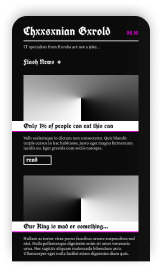
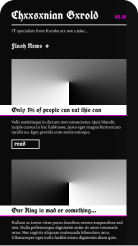
0x041022[pc]

diff --git a/styles/main.css b/styles/main.css
@@ -1,1 +1,1 @@
-*{font-family:"Ubuntu",sans-serif;font-size:1.25vw}body{background:url(../img/hero_img.png) top no-repeat;background-size:100vw 69.22vw;background-color:#101010}section:not(#welcome-section),#top-menu{padding:0 5.21vw}section header :is(h1,h2){margin:0;font-size:4.16em;color:#b2ee3b;font-weight:700;box-sizing:border-box}#top-menu{position:fixed;top:-2.61vw;background-color:#ff3f3f;display:flex;justify-content:space-between;align-items:center;height:2.61vw;width:100vw;box-sizing:border-box;z-index:10}#top-menu nav ul{padding:0;list-style:none;display:flex;gap:3.65vw;position:relative;height:2.61vw;align-items:center}#top-menu nav ul li:first-child{margin-left:1.57vw}#top-menu nav ul li:nth-last-child(2){margin-right:1.57vw}#top-menu nav ul a{text-decoration:none;color:#000;font-weight:700;transition:color ease-in-out .5s;height:100%}#top-menu .active{color:#b2ee3b}#top-menu nav ul li:hover a{color:#b2ee3b}#top-menu nav ul li:nth-child(1):hover~#active-bg-slider{width:8.81vw !important;margin-left:0 !important}#top-menu nav ul li:nth-child(2):hover~#active-bg-slider{width:8.6vw !important;margin-left:9.22vw !important}#top-menu nav ul li:nth-child(3):hover~#active-bg-slider{width:8.29vw !important;margin-left:18.15vw !important}#top-menu nav ul li:nth-child(4):hover~#active-bg-slider{width:6.78vw !important;margin-left:26.88vw !important}#logo{width:1.93vw;height:1.93vw}#active-bg-slider{position:absolute;top:0;background-color:#101010;width:8.81vw;height:100%;z-index:-1;transition:all .5s ease-in-out}#welcome-section{height:50.53vw;display:flex;justify-content:space-between}#welcome-section .welcome-sidebar{width:24vw;display:flex}#welcome-section .welcome-sidebar:last-child{justify-content:right}#welcome-section .welcome-actionbar{width:13.6vw;display:flex;align-items:center;justify-content:center;transition:background-color .3s ease-in-out;border-radius:0 0 10vw 0}#welcome-section #right-sidebar .welcome-actionbar{border-radius:0 0 0 10vw}#welcome-section .welcome-sidebar:hover>.welcome-actionbar{background-color:rgba(255,255,255,.0509803922) !important}#welcome-section .welcome-sidebar:hover>.welcome-actionbar>.triangle{background-color:#fff}#welcome-section .triangle{width:3.13vw;height:3.13vw;background:rgba(255,255,255,.05);clip-path:polygon(50% 0%, 0% 100%, 100% 100%);transform:rotate(-90deg);transition:background-color .5s ease-in-out}#welcome-section #right-sidebar .triangle{transform:rotate(90deg)}#aboutme-section{position:relative;margin-top:24.38vw}#aboutme-section header div{display:flex;justify-content:space-between;width:24vw;color:#fff}#aboutme-section header div a{position:relative}#aboutme-section header div a::before{content:"@loooltooot";position:absolute;top:0;left:0;background:linear-gradient(270deg, #b2ee3b 0%, #ff3f3f 100%);-webkit-background-clip:text;background-clip:text;-webkit-text-fill-color:rgba(0,0,0,0);opacity:0;transition:opacity .3s ease-in-out}#aboutme-section header div a:hover::before{opacity:1}#aboutme-section header h1{margin-left:-0.19vw}#aboutme-section #aboutme-description{padding:10vw 0 10vw 5.21vw;background-color:#ff3f3f;width:94.8vw;transform:translateX(-5.21vw);box-sizing:border-box;margin-top:19.07vw;border-radius:0 0 20.84vw 0}#aboutme-section #aboutme-description span{display:block;font-weight:700;font-size:2.66em;width:51.88vw}#aboutme-section #aboutme-description span .highlight{display:inline;width:fit-content;font-size:1em;color:#ff3f3f;background-color:#101010}@keyframes legoman_animation{0%{transform:rotate(0deg)}50%{transform:rotate(2deg)}100%{transform:rotate(1deg)}}#aboutme-section #legoman{position:absolute;right:5.21vw;top:-2.6vw;width:44.64vw;transform-origin:70% 50%;animation:legoman_animation 4s infinite alternate}#aboutme-section #aboutme-decal{position:absolute;right:5.21vw;top:1.87vw;z-index:-1;width:38.23vw;height:24.28vw;background-color:#ff3f3f;border-radius:20.84vw 20.84vw 0 0}#aboutme-section header div a,section header span{color:#fff;text-decoration:none;margin-top:-0.5vw;display:block}#portfolio-section{display:flex;flex-direction:column;margin-top:7.19vw}#portfolio-section header{text-align:right}#portfolio-section header h2{margin-right:-0.35vw}#portfolio-section #buttons{display:flex;justify-content:space-between;margin-top:13.9vw}#portfolio-section #buttons svg{cursor:pointer;width:39.32vw;height:12.6vw}#portfolio-section #buttons .shadow{opacity:0;transition:opacity ease .7s}#portfolio-section #buttons svg:hover>path.shadow{opacity:1}#contacts-section{margin-top:18.25vw;background-color:#ff3f3f;position:relative;height:31.41vw;overflow-x:clip}#contacts-section header{background-color:#101010;width:22.86vw;height:5.21vw;display:flex;justify-content:center;align-items:center}#contacts-section #contacts-description{display:flex;justify-content:space-between}#contacts-section #contacts-description #activity{width:39.64vw;height:16.67vw;display:flex;flex-direction:column;justify-content:space-between;margin-top:4.74vw}#contacts-section #contacts-description #activity p{font-weight:700;font-size:2.66em;margin:0}#contacts-section #contacts-description #activity #contacts-buttons{display:flex;justify-content:space-between;width:34.48vw}#contacts-section #contacts-description #activity #contacts-buttons .contact-button{border:#101010 solid .21vw;padding:1.38vw 2.6vw;font-weight:bold;cursor:pointer;color:#101010;text-decoration:none;transition:background-color ease-in-out .5s,color ease-in-out .5s}#contacts-section #contacts-description #activity #contacts-buttons .contact-button:hover{color:#ff3f3f;background-color:#101010}#contacts-section #contacts-description #contacts-block{display:flex;flex-direction:column;justify-content:space-between;background-color:#101010;padding:1.41vw 5.21vw 1.41vw 4.32vw;height:6.82vw;transform:translateX(5.21vw);color:#ff3f3f;font-weight:700;box-sizing:border-box}#contacts-section #contacts-description #contacts-block span{position:relative}#contacts-section #contacts-description #contacts-block span:first-child::before{position:absolute;left:-2.84vw;top:0;width:1.82vw;height:1.56vw;background-image:url("../img/email-cont.svg");background-size:1.82vw 1.56vw;content:"";top:.12vw}#contacts-section #contacts-description #contacts-block span:last-child::before{position:absolute;left:-3vw;top:0;width:1.82vw;height:1.56vw;background-image:url("../img/tg-cont.svg");background-size:1.82vw 1.56vw;content:""}#contacts-section #legohand{position:absolute;transform:rotate(90deg);left:100vw;top:39vw;width:61.98vw;height:34.84vw;transition:left ease-in-out 1.5s,transform ease-in-out 1.5s;transform-origin:100% 30%}@keyframes legohand_animation{0%{transform:rotate(56.78deg)}33%{transform:rotate(62deg)}66%{transform:rotate(55deg)}100%{transform:rotate(58deg)}}#contacts-section #legohand.animated-hand{left:50.39vw;transform:rotate(56.78deg)}#contacts-section #legohand.animation-hand{animation:legohand_animation 8s infinite alternate}body>footer{margin-top:12.53vw;position:relative}body>footer #footer-logo{width:100vw;height:16.98vw;position:absolute;top:3vw;filter:none;transition:filter ease-in-out .5s}body>footer .actionbar{height:19.95vw;background:linear-gradient(180deg, rgba(23, 23, 23, 0) 48.44%, #b2ee3b 100%);width:100%;z-index:-1;opacity:0;transition:opacity .5s ease-in-out}body>footer:hover .actionbar{opacity:1}body>footer:hover #footer-logo{filter:drop-shadow(2px 4px 4px rgba(0, 0, 0, 0.25))}#menu{position:fixed;top:0;width:100vw;height:100vh;display:flex;flex-direction:column;justify-content:space-between;background-color:rgba(16,16,16,.95);backdrop-filter:blur(12px);box-sizing:border-box;padding-top:2.92vw !important;padding-bottom:2.92vw !important;opacity:0;z-index:-1}#menu header{display:flex;justify-content:space-between;align-items:center}#menu header img{width:4.48vw;height:4.48vw}#menu header #circle{width:2.39vw;height:2.39vw;border:#ff3f3f solid .42vw;border-radius:50%;transition:background-color ease-in-out .5s;cursor:pointer}#menu header #circle:hover{background-color:#ff3f3f}#menu nav{display:flex;height:29.64vw}#menu nav ul{position:relative;display:flex;width:100%;flex-direction:column;justify-content:space-between;align-items:center;list-style:none;padding:0}#menu nav ul li a{color:#a5a5a5;font-size:2.66em;font-weight:700;text-decoration:none;transition:color ease-in-out .5s}#menu nav ul li a.active{color:#101010}#menu nav ul li:hover a{color:#101010 !important}#menu nav ul div{background-color:#ff3f3f;height:3.89vw;width:100%;position:absolute;z-index:-1;transition:margin-top ease-in-out .5s}#menu nav ul li:nth-child(1):hover~div{margin-top:0}#menu nav ul li:nth-child(2):hover~div{margin-top:8vw}#menu nav ul li:nth-child(3):hover~div{margin-top:15.7vw}#menu nav ul li:nth-child(4):hover~div{margin-top:23.5vw}#menu footer{display:flex;justify-content:space-between}#menu footer img{width:17.03vw}#menu footer div{display:flex;justify-content:space-between;width:17.03vw}#menu footer div svg{width:3.44vw;cursor:pointer}#menu footer div svg path{transition:fill ease-in-out .5s}#menu footer div svg:last-child{width:4.11vw}#menu footer div svg:hover path{fill:#fff}/*# sourceMappingURL=main.css.map */
+body::-webkit-scrollbar{width:.42vw}body::-webkit-scrollbar-track{background:#101010}body::-webkit-scrollbar-thumb{background:#b2ee3b;border-radius:.42vw}*{font-family:"Ubuntu",sans-serif;font-size:1.25vw}body{background:url(../img/hero_img.png) top no-repeat;background-size:100vw 69.22vw;background-color:#101010;overflow-x:clip}section:not(#welcome-section),#top-menu{padding:0 5.21vw}section header :is(h1,h2){margin:0;font-size:4.16em;color:#b2ee3b;font-weight:700;box-sizing:border-box}#top-menu{position:fixed;top:-2.61vw;background-color:#ff3f3f;display:flex;justify-content:space-between;align-items:center;height:2.61vw;width:100vw;box-sizing:border-box;z-index:10}#top-menu nav ul{padding:0;list-style:none;display:flex;gap:3.65vw;position:relative;height:2.61vw;align-items:center}#top-menu nav ul li:first-child{margin-left:1.57vw}#top-menu nav ul li:nth-last-child(2){margin-right:1.57vw}#top-menu nav ul a{text-decoration:none;color:#000;font-weight:700;transition:color ease-in-out .5s;height:100%}#top-menu .active{color:#b2ee3b}#top-menu nav ul li:hover a{color:#b2ee3b}#top-menu nav ul li:nth-child(1):hover~#active-bg-slider{width:8.81vw !important;margin-left:0 !important}#top-menu nav ul li:nth-child(2):hover~#active-bg-slider{width:8.6vw !important;margin-left:9.22vw !important}#top-menu nav ul li:nth-child(3):hover~#active-bg-slider{width:8.29vw !important;margin-left:18.15vw !important}#top-menu nav ul li:nth-child(4):hover~#active-bg-slider{width:6.78vw !important;margin-left:26.88vw !important}#logo{width:1.93vw;height:1.93vw}#active-bg-slider{position:absolute;top:0;background-color:#101010;width:8.81vw;height:100%;z-index:-1;transition:all .5s ease-in-out}#welcome-section{height:50.53vw;display:flex;justify-content:space-between}#welcome-section .welcome-sidebar{width:24vw;display:flex}#welcome-section .welcome-sidebar:last-child{justify-content:right}#welcome-section .welcome-actionbar{width:13.6vw;display:flex;align-items:center;justify-content:center;transition:background-color .3s ease-in-out;border-radius:0 0 10vw 0}#welcome-section #right-sidebar .welcome-actionbar{border-radius:0 0 0 10vw}#welcome-section .welcome-sidebar:hover>.welcome-actionbar{background-color:rgba(255,255,255,.0509803922) !important}#welcome-section .welcome-sidebar:hover>.welcome-actionbar>.triangle{background-color:#fff}#welcome-section .triangle{width:3.13vw;height:3.13vw;background:rgba(255,255,255,.05);clip-path:polygon(50% 0%, 0% 100%, 100% 100%);transform:rotate(-90deg);transition:background-color .5s ease-in-out}#welcome-section #right-sidebar .triangle{transform:rotate(90deg)}#aboutme-section{position:relative;margin-top:24.38vw}#aboutme-section header div{display:flex;justify-content:space-between;width:24vw;color:#fff}#aboutme-section header div a{position:relative}#aboutme-section header div a::before{content:"@loooltooot";position:absolute;top:0;left:0;background:linear-gradient(270deg, #b2ee3b 0%, #ff3f3f 100%);-webkit-background-clip:text;background-clip:text;-webkit-text-fill-color:rgba(0,0,0,0);opacity:0;transition:opacity .3s ease-in-out}#aboutme-section header div a:hover::before{opacity:1}#aboutme-section header h1{margin-left:-0.19vw}#aboutme-section #aboutme-description{padding:10vw 0 10vw 5.21vw;background-color:#ff3f3f;width:94.8vw;transform:translateX(-5.21vw);-webkit-transform:translateX(-5.63vw);-moz-transform:translateX(-5.21vw);box-sizing:border-box;margin-top:19.07vw;border-radius:0 0 20.84vw 0}#aboutme-section #aboutme-description span{display:block;font-weight:700;font-size:2.66em;width:51.88vw}#aboutme-section #aboutme-description span .highlight{display:inline;width:fit-content;font-size:1em;color:#ff3f3f;background-color:#101010}@keyframes legoman_animation{0%{transform:rotate(0deg)}50%{transform:rotate(2deg)}100%{transform:rotate(1deg)}}#aboutme-section #legoman{position:absolute;right:5.21vw;top:-2.6vw;width:44.64vw;transform-origin:70% 50%;animation:legoman_animation 4s infinite alternate}#aboutme-section #aboutme-decal{position:absolute;right:5.21vw;top:1.87vw;z-index:-1;width:38.23vw;height:24.28vw;background-color:#ff3f3f;border-radius:20.84vw 20.84vw 0 0}#aboutme-section header div a,section header span{color:#fff;text-decoration:none;margin-top:-0.5vw;display:block}#portfolio-section{display:flex;flex-direction:column;margin-top:7.19vw}#portfolio-section header{text-align:right}#portfolio-section header h2{margin-right:-0.35vw}#portfolio-section #buttons{display:flex;justify-content:space-between;margin-top:13.9vw}#portfolio-section #buttons svg{cursor:pointer;width:39.32vw;height:12.6vw}#portfolio-section #buttons .shadow{opacity:0;transition:opacity ease .7s}#portfolio-section #buttons svg:hover>path.shadow{opacity:1}#contacts-section{margin-top:18.25vw;background-color:#ff3f3f;position:relative;height:31.41vw;overflow-x:clip}#contacts-section header{background-color:#101010;width:22.86vw;height:5.21vw;display:flex;justify-content:center;align-items:center}#contacts-section #contacts-description{display:flex;justify-content:space-between}#contacts-section #contacts-description #activity{width:39.64vw;height:16.67vw;display:flex;flex-direction:column;justify-content:space-between;margin-top:4.74vw}#contacts-section #contacts-description #activity p{font-weight:700;font-size:2.66em;margin:0}#contacts-section #contacts-description #activity #contacts-buttons{display:flex;justify-content:space-between;width:34.48vw}#contacts-section #contacts-description #activity #contacts-buttons .contact-button{border:#101010 solid .21vw;padding:1.38vw 2.6vw;font-weight:bold;cursor:pointer;color:#101010;text-decoration:none;transition:background-color ease-in-out .5s,color ease-in-out .5s}#contacts-section #contacts-description #activity #contacts-buttons .contact-button:hover{color:#ff3f3f;background-color:#101010}#contacts-section #contacts-description #contacts-block{display:flex;flex-direction:column;justify-content:space-between;background-color:#101010;padding:1.41vw 5.21vw 1.41vw 4.32vw;height:6.82vw;transform:translateX(5.21vw);color:#ff3f3f;font-weight:700;box-sizing:border-box}#contacts-section #contacts-description #contacts-block span{position:relative}#contacts-section #contacts-description #contacts-block span:first-child::before{position:absolute;left:-2.84vw;top:0;width:1.82vw;height:1.56vw;background-image:url("../img/email-cont.svg");background-size:1.82vw 1.56vw;content:"";top:.12vw}#contacts-section #contacts-description #contacts-block span:last-child::before{position:absolute;left:-3vw;top:0;width:1.82vw;height:1.56vw;background-image:url("../img/tg-cont.svg");background-size:1.82vw 1.56vw;content:""}#contacts-section #legohand{position:absolute;transform:rotate(90deg);left:100vw;top:39vw;width:61.98vw;height:34.84vw;transition:left ease-in-out 1.5s,transform ease-in-out 1.5s;transform-origin:100% 30%}@keyframes legohand_animation{0%{transform:rotate(56.78deg)}33%{transform:rotate(62deg)}66%{transform:rotate(55deg)}100%{transform:rotate(58deg)}}#contacts-section #legohand.animated-hand{left:50.39vw;transform:rotate(56.78deg)}#contacts-section #legohand.animation-hand{animation:legohand_animation 8s infinite alternate}body>footer{margin-top:12.53vw;position:relative}body>footer #footer-logo{width:100vw;height:16.98vw;position:absolute;top:3vw;filter:none;transition:filter ease-in-out .5s}body>footer .actionbar{height:19.95vw;background:linear-gradient(180deg, rgba(23, 23, 23, 0) 48.44%, #b2ee3b 100%);width:100%;z-index:-1;opacity:0;transition:opacity .5s ease-in-out}body>footer:hover .actionbar{opacity:1}body>footer:hover #footer-logo{filter:drop-shadow(2px 4px 4px rgba(0, 0, 0, 0.25))}#menu{position:fixed;top:0;width:100vw;height:100vh;display:flex;flex-direction:column;justify-content:space-between;background-color:rgba(16,16,16,.95);backdrop-filter:blur(12px);box-sizing:border-box;padding-top:2.92vw !important;padding-bottom:2.92vw !important;opacity:0;z-index:-1}#menu header{display:flex;justify-content:space-between;align-items:center}#menu header img{width:4.48vw;height:4.48vw}#menu header #circle{width:2.39vw;height:2.39vw;border:#ff3f3f solid .42vw;border-radius:50%;transition:background-color ease-in-out .5s;cursor:pointer}#menu header #circle:hover{background-color:#ff3f3f}#menu nav{display:flex;height:29.64vw}#menu nav ul{position:relative;display:flex;width:100%;flex-direction:column;justify-content:space-between;align-items:center;list-style:none;padding:0}#menu nav ul li a{color:#a5a5a5;font-size:2.66em;font-weight:700;text-decoration:none;transition:color ease-in-out .5s}#menu nav ul li a.active{color:#101010}#menu nav ul li:hover a{color:#101010 !important}#menu nav ul div{background-color:#ff3f3f;height:3.89vw;width:100%;position:absolute;z-index:-1;transition:margin-top ease-in-out .5s}#menu nav ul li:nth-child(1):hover~div{margin-top:0}#menu nav ul li:nth-child(2):hover~div{margin-top:8vw}#menu nav ul li:nth-child(3):hover~div{margin-top:15.7vw}#menu nav ul li:nth-child(4):hover~div{margin-top:23.5vw}#menu footer{display:flex;justify-content:space-between}#menu footer img{width:17.03vw}#menu footer div{display:flex;justify-content:space-between;width:17.03vw}#menu footer div svg{width:3.44vw;cursor:pointer}#menu footer div svg path{transition:fill ease-in-out .5s}#menu footer div svg:last-child{width:4.11vw}#menu footer div svg:hover path{fill:#fff}/*# sourceMappingURL=main.css.map */

diff --git a/styles/app.css b/styles/app.css
@@ -1,1 +1,1 @@
-body{width:100vw;background-color:#101010}main{display:flex;flex-wrap:wrap}.portfolio-item{width:33.33vw;height:100vh;display:flex;flex-direction:column;justify-content:space-between;position:relative}.portfolio-item header img{margin:1.82vw 0 0 1.82vw}.portfolio-item *{z-index:10}.portfolio-item:nth-child(1){background:linear-gradient(180deg, #363636 0%, #2A2A2A 100%)}.portfolio-item:nth-child(1)::before{content:"";position:absolute;top:0;left:0;width:100%;height:100%;background:linear-gradient(0deg, #363636 0%, #2A2A2A 100%);transition:opacity ease-in-out .5s;opacity:0}.portfolio-item:nth-child(2){background:linear-gradient(0deg, #009200 0%, #00B900 100%)}.portfolio-item:nth-child(2)::before{content:"";position:absolute;top:0;left:0;width:100%;height:100%;background:linear-gradient(180deg, #009200 0%, #00B900 100%);transition:opacity ease-in-out .5s;opacity:0}.portfolio-item:nth-child(3){background:linear-gradient(180deg, #FFAE36 0%, #FF9800 100%)}.portfolio-item:nth-child(3)::before{content:"";position:absolute;top:0;left:0;width:100%;height:100%;background:linear-gradient(0deg, #FFAE36 0%, #FF9800 100%);transition:opacity ease-in-out .5s;opacity:0}.portfolio-item:hover::before{opacity:1}.portfolio-item .bg-img{width:15.05vw;margin:0 auto}.portfolio-item .footer-img{width:5.16vw;position:absolute;right:1.82vw;bottom:1.82vw;cursor:pointer}/*# sourceMappingURL=app.css.map */
+body{width:100vw;background-color:#101010}main{display:flex;flex-wrap:wrap}.portfolio-item{width:33.33vw;height:100vh;display:flex;flex-direction:column;justify-content:space-between;position:relative}.portfolio-item header img{margin:1.82vw 0 0 1.82vw}.portfolio-item *{z-index:10}.portfolio-item img.bg-img,.portfolio-item img.mb-bg-img{border-radius:1.56vw 1.56vw 0 0;box-shadow:0px -4px 16px -4px rgba(0,0,0,.5)}.portfolio-item img.mb-bg-img{border-radius:.78vw .78vw 0 0}.portfolio-item:nth-child(1){background:linear-gradient(180deg, #363636 0%, #2A2A2A 100%)}.portfolio-item:nth-child(1)::before{content:"";position:absolute;top:0;left:0;width:100%;height:100%;background:linear-gradient(0deg, #363636 0%, #2A2A2A 100%);transition:opacity ease-in-out .5s;opacity:0}.portfolio-item:nth-child(2){background:linear-gradient(0deg, #009200 0%, #00B900 100%)}.portfolio-item:nth-child(2)::before{content:"";position:absolute;top:0;left:0;width:100%;height:100%;background:linear-gradient(180deg, #009200 0%, #00B900 100%);transition:opacity ease-in-out .5s;opacity:0}.portfolio-item:nth-child(3){background:linear-gradient(180deg, #FFAE36 0%, #FF9800 100%)}.portfolio-item:nth-child(3)::before{content:"";position:absolute;top:0;left:0;width:100%;height:100%;background:linear-gradient(0deg, #FFAE36 0%, #FF9800 100%);transition:opacity ease-in-out .5s;opacity:0}.portfolio-item:hover::before{opacity:1}.portfolio-item .bg-img{width:15.05vw;margin:0 auto}.portfolio-item .footer-img{width:5.16vw;position:absolute;right:1.82vw;bottom:1.82vw;cursor:pointer}/*# sourceMappingURL=app.css.map */

diff --git a/styles/web.css b/styles/web.css
@@ -1,1 +1,1 @@
-body{width:100vw;background-color:#101010}main{display:flex;flex-wrap:wrap}.portfolio-item{width:33.33vw;height:100vh;display:flex;flex-direction:column;justify-content:space-between;position:relative}.portfolio-item header img{margin:1.82vw 0 0 1.82vw}.portfolio-item *{z-index:10}.portfolio-item:nth-child(1){background:linear-gradient(180deg, #6CF8E8 0%, #60D7C9 100%)}.portfolio-item:nth-child(1)::before{background:linear-gradient(0deg, #6CF8E8 0%, #60D7C9 100%)}.portfolio-item:nth-child(2){background:linear-gradient(0deg, #244F52 0%, #306569 100%)}.portfolio-item:nth-child(2)::before{background:linear-gradient(180deg, #244F52 0%, #306569 100%)}.portfolio-item:nth-child(3){background:linear-gradient(180deg, #FF00F5 0%, #C200BB 100%)}.portfolio-item:nth-child(3)::before{background:linear-gradient(0deg, #FF00F5 0%, #C200BB 100%)}.portfolio-item:hover::before{opacity:1}.portfolio-item{position:relative}.portfolio-item .bg-img{width:31.15vw;margin:0 auto}.portfolio-item .mb-bg-img{width:7.19vw;position:absolute}.portfolio-item:nth-child(1) .mb-bg-img{left:6.04vw;bottom:16.72vw}.portfolio-item:nth-child(3) .mb-bg-img{right:5.05vw;bottom:15.05vw}/*# sourceMappingURL=web.css.map */
+body{width:100vw;background-color:#101010}main{display:flex;flex-wrap:wrap}.portfolio-item{width:33.33vw;height:100vh;display:flex;flex-direction:column;justify-content:space-between;position:relative}.portfolio-item header img{margin:1.82vw 0 0 1.82vw}.portfolio-item *{z-index:10}.portfolio-item img.bg-img,.portfolio-item img.mb-bg-img{border-radius:1.56vw 1.56vw 0 0;box-shadow:0px -4px 16px -4px rgba(0,0,0,.5)}.portfolio-item img.mb-bg-img{border-radius:.78vw .78vw 0 0}.portfolio-item:nth-child(1){background:linear-gradient(180deg, #6CF8E8 0%, #60D7C9 100%)}.portfolio-item:nth-child(1)::before{content:"";position:absolute;top:0;left:0;width:100%;height:100%;background:linear-gradient(0deg, #6CF8E8 0%, #60D7C9 100%);transition:opacity ease-in-out .5s;opacity:0}.portfolio-item:nth-child(2){background:linear-gradient(0deg, #244F52 0%, #306569 100%)}.portfolio-item:nth-child(2)::before{content:"";position:absolute;top:0;left:0;width:100%;height:100%;background:linear-gradient(180deg, #244F52 0%, #306569 100%);transition:opacity ease-in-out .5s;opacity:0}.portfolio-item:nth-child(3){background:linear-gradient(180deg, #FF00F5 0%, #C200BB 100%)}.portfolio-item:nth-child(3)::before{content:"";position:absolute;top:0;left:0;width:100%;height:100%;background:linear-gradient(0deg, #FF00F5 0%, #C200BB 100%);transition:opacity ease-in-out .5s;opacity:0}.portfolio-item:hover::before{opacity:1}.portfolio-item{position:relative}.portfolio-item .bg-img{width:31.15vw;margin:0 auto}.portfolio-item .mb-bg-img{width:7.19vw;position:absolute;z-index:9}.portfolio-item:nth-child(1) .mb-bg-img{left:6.04vw;bottom:16.72vw}.portfolio-item:nth-child(3) .mb-bg-img{right:5.05vw;bottom:15.05vw}/*# sourceMappingURL=web.css.map */

diff --git a/sass_folder/main.scss b/sass_folder/main.scss
@@ -1,20 +1,3 @@
-// Work in progress
-
-// body::after {
-//     content: "WORK IN PROGRESS";
-//     width: 100%;
-//     height: 100%;
-//     position: fixed;
-//     top: 0;
-//     background-color: rgba($color: #101010, $alpha: .98);
-//     backdrop-filter: blur(16px);
-//     text-align: center;
-//     padding-top: 22%;
-//     color: #ff3f3f;
-//     font-size: 3.33vw;
-//     font-weight: 700;
-// }
-
 // Variebles section
 
 $background_color: #101010;
@@ -26,6 +9,19 @@ $menu_font_color: #A5A5A5;
 
 // ————————————————————————————
 
+body::-webkit-scrollbar {
+    width: .42vw;
+}
+
+body::-webkit-scrollbar-track {
+    background: $background_color;
+}
+
+body::-webkit-scrollbar-thumb {
+    background: $secondary_color;
+    border-radius: .42vw;
+}
+
 * {
     font-family: "Ubuntu", sans-serif;
     font-size: $min_font_size;
@@ -35,7 +31,7 @@ body {
     background: url(../img/hero_img.png) top no-repeat;
     background-size: 100vw 69.22vw;
     background-color: $background_color;
-    // overflow-y: clip; // TEMP
+    overflow-x: clip;
 }
 
 section:not(#welcome-section),
@@ -229,6 +225,8 @@ section header :is(h1, h2) {
         background-color: $primary_color;
         width: 94.8vw;
         transform: translateX(-$side_paddings);
+        -webkit-transform: translateX(-$side_paddings - .42vw);
+        -moz-transform: translateX(-$side_paddings);
         box-sizing: border-box;
         margin-top: 19.07vw;
         border-radius: 0 0 20.84vw 0;

diff --git a/sass_folder/web.scss b/sass_folder/web.scss
@@ -5,7 +5,7 @@
 }
 
 .portfolio-item:nth-child(1)::before {
-    background: linear-gradient(0deg, #6CF8E8 0%, #60D7C9 100%);
+    @include beforeBg($bg: linear-gradient(0deg, #6CF8E8 0%, #60D7C9 100%));
 }
 
 .portfolio-item:nth-child(2) {
@@ -13,7 +13,7 @@
 }
 
 .portfolio-item:nth-child(2)::before {
-    background: linear-gradient(180deg, #244F52 0%, #306569 100%);
+    @include beforeBg($bg: linear-gradient(180deg, #244F52 0%, #306569 100%));
 }
 
 .portfolio-item:nth-child(3) {
@@ -21,7 +21,7 @@
 }
 
 .portfolio-item:nth-child(3)::before {
-    background: linear-gradient(0deg, #FF00F5 0%, #C200BB 100%);
+    @include beforeBg($bg: linear-gradient(0deg, #FF00F5 0%, #C200BB 100%));
 }
 
 .portfolio-item:hover::before {
@@ -39,6 +39,7 @@
     .mb-bg-img {
         width: 7.19vw;
         position: absolute;
+        z-index: 9;
     }
 }
 

diff --git a/scripts/portfolio.js b/scripts/portfolio.js
@@ -20,3 +20,17 @@ $(".footer-img").each((i, val) => {
         window.open(links[i]);
     });
 });
+
+// ::Portfolio items appearing::
+$(".portfolio-item:nth-child(1)").css({"transform": "translateX(-33.33vw)", 
+    "-webkit-transform": "translateX(-33.75vw)", 
+    "-moz-transform": "translateX(-33.33vw)"});
+
+$(".portfolio-item:nth-child(2)").css("transform", "translateY(-100vh)");
+$(".portfolio-item:nth-child(3)").css("transform", "translateY(100vh)");
+setTimeout(() => {
+    $(".portfolio-item").each((i, val) => {
+        $(val).removeAttr("style");
+        $(val).css("transition", "transform cubic-bezier(0.3, 0, 0.26, 1) .5s")
+    });
+}, 300);

diff --git a/sass_folder/_portfolio.scss b/sass_folder/_portfolio.scss
@@ -29,6 +29,7 @@ main {
     flex-direction: column;
     justify-content: space-between;
     position: relative;
+    // transition: transform ease-in-out .5s;
 
     header img {
         margin: 1.82vw 0 0 1.82vw;
@@ -36,5 +37,14 @@ main {
 
     * {
         z-index: 10;
+    }
+
+    img.bg-img, img.mb-bg-img {
+        border-radius: 1.56vw 1.56vw 0 0;
+        box-shadow: 0px -4px 16px -4px rgba(0, 0, 0, 0.5);
+    }
+
+    img.mb-bg-img {
+        border-radius: .78vw .78vw 0 0;
     }
 }

diff --git a/pages/portfolio_web.html b/pages/portfolio_web.html
@@ -6,6 +6,7 @@
     <meta name="viewport" content="width=device-width, initial-scale=1.0">
     <link rel="stylesheet" href="../styles/normalize.css">
     <link rel="stylesheet" href="../styles/web.css">
+    <link rel="shortcut icon" href="../img/logo.png" type="image/png">
     <title>Portfolio Websites</title>
 </head>
 <body>

diff --git a/pages/portfolio_app.html b/pages/portfolio_app.html
@@ -6,6 +6,7 @@
     <meta name="viewport" content="width=device-width, initial-scale=1.0">
     <link rel="stylesheet" href="../styles/normalize.css">
     <link rel="stylesheet" href="../styles/app.css">
+    <link rel="shortcut icon" href="../img/logo.png" type="image/png">
     <title>Portfolio Apps</title>
 </head>
 <body>
